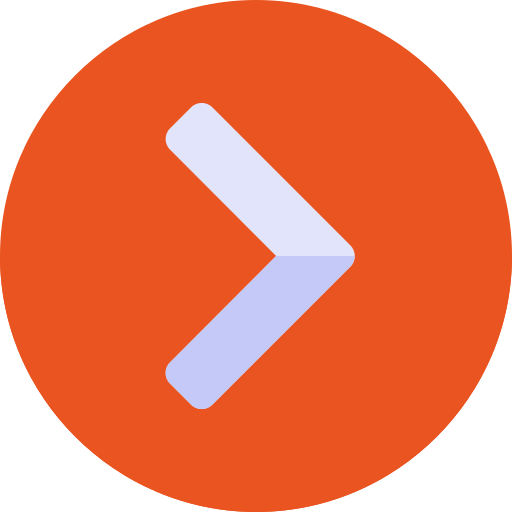
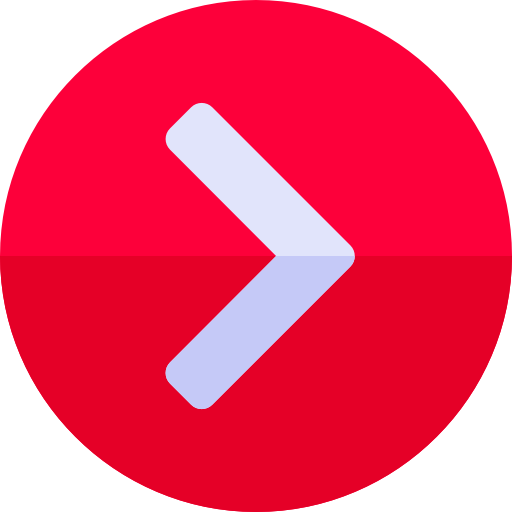
Changed carousel prev btn to same clr as next btn

diff --git a/src/pages/RegisterPage.jsx b/src/pages/RegisterPage.jsx
@@ -103,7 +103,7 @@ const Register = () => {
                     Register
                   </Button>
                 </Form>
-                <div className="pt-3">
+                <div className="my-4">
                   <p className="fw-bolder text-center">Or</p>
                   <ContinueWithGoogle />
                 </div>

diff --git a/src/pages/LoginPage.jsx b/src/pages/LoginPage.jsx
@@ -86,7 +86,7 @@ const Login = () => {
                     Login
                   </Button>
                 </Form>
-                <div className="pt-3">
+                <div className="my-4">
                   <p className="fw-bolder text-center">Or</p>
                   <ContinueWithGoogle />
                 </div>
